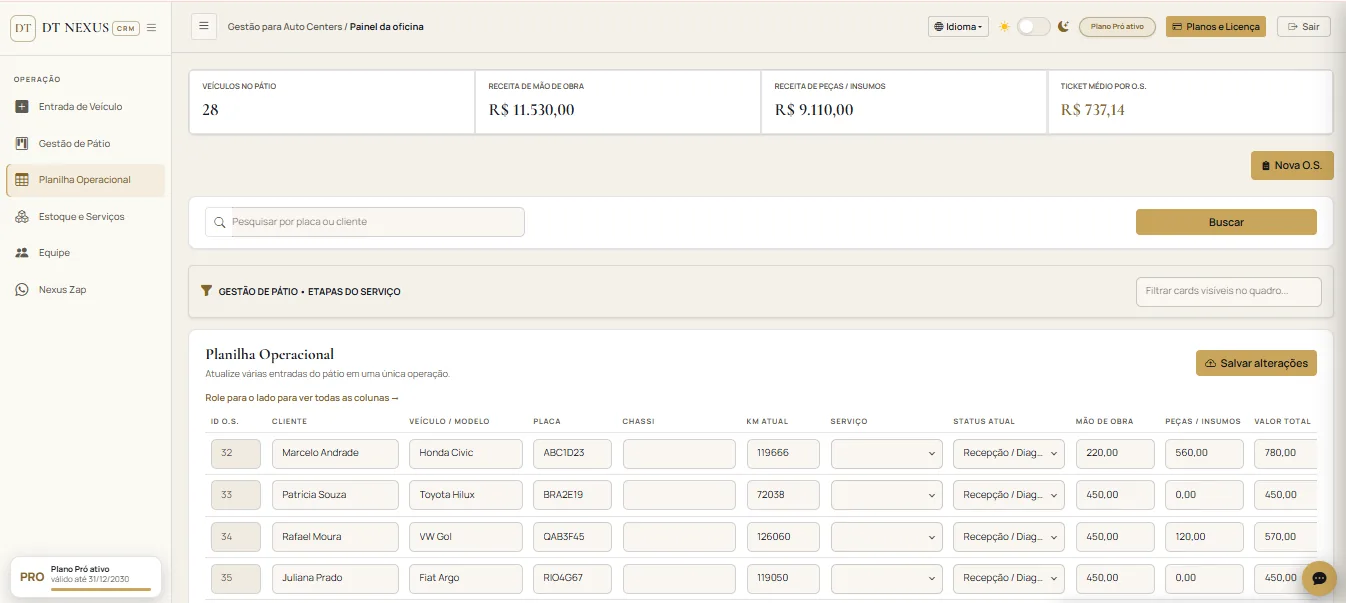
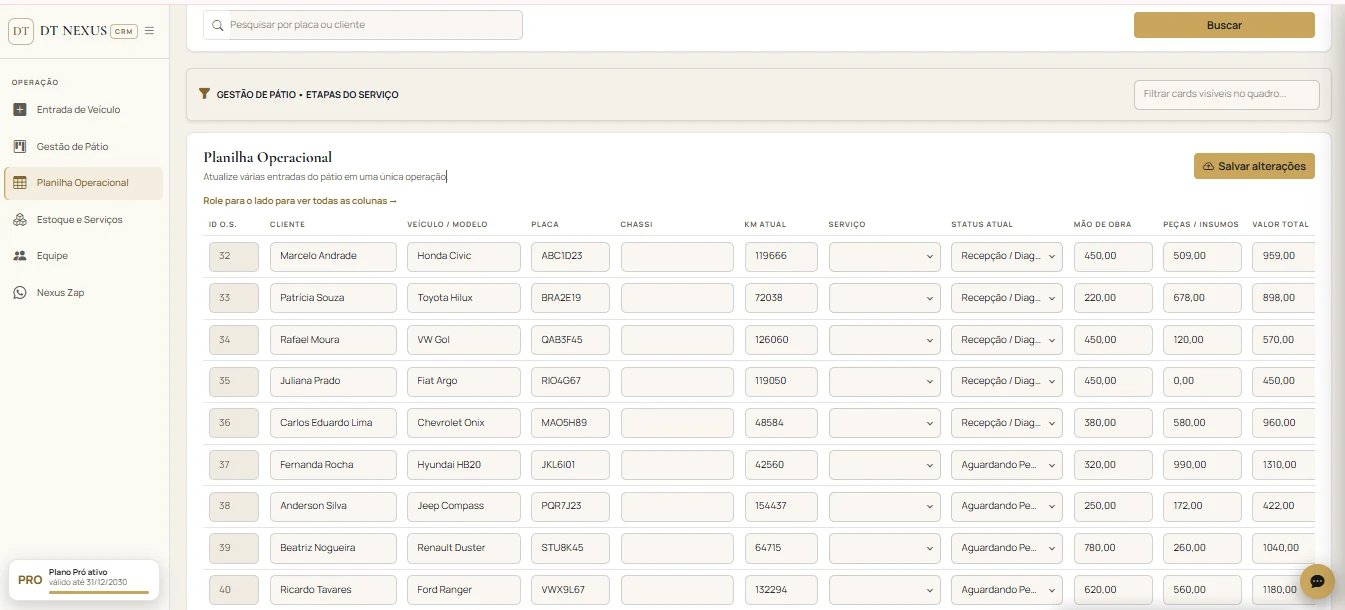
Galeria: WhatsApp, Serviços e planilha atualizada

diff --git a/index.html b/index.html
@@ -433,6 +433,8 @@ document.getElementById('y').textContent = new Date().getFullYear();
     {k:"equipe",n:"Equipe",t:"Equipe e mecânico responsável",d:"Veja qual mecânico está com cada carro e escolha como a oficina trabalha: carro com responsável ou equipe aberta.",a:"Tela de equipe com os carros e o mecânico responsável por cada um"},
     {k:"chat",t:"Chat interno",d:"Balcão e oficina conversam dentro do sistema, sem recado em papel e sem grito pelo pátio.",a:"Chat interno entre balcão e mecânico"},
     {k:"os",t:"Ordem de serviço",d:"Execução, peças e serviços, checklist, histórico e faturamento na mesma O.S. Gere o PDF ou mande o orçamento pelo WhatsApp.",a:"Painel da ordem de serviço com abas de execução, peças, checklist, histórico e faturamento"},
+    {k:"zap",n:"WhatsApp",t:"Central de atendimento (Nexus Zap)",d:"Converse com o cliente pelo número da oficina, dentro do sistema: textos, PDF de orçamento e macros prontas, com o histórico de cada carro.",a:"Central de atendimento por WhatsApp com a conversa do cliente e o orçamento"},
+    {k:"servicos",n:"Serviços",t:"Serviços e mão de obra",d:"Cadastre cada serviço com custo, valor da mão de obra e margem. Na ordem de serviço, é só escolher.",a:"Catálogo de serviços e mão de obra com custo, valor e margem"},
     {k:"estoque",n:"Estoque",t:"Estoque e serviços",d:"Peças com custo, venda, margem e alerta de estoque baixo, mais o catálogo de serviços. Tudo vai direto para a ordem de serviço.",a:"Tela de estoque com peças, custo, venda, margem e aviso de estoque baixo"},
     {k:"planilha",t:"Planilha operacional",d:"Atualize vários carros de uma vez, em formato de planilha: cliente, placa, km, status e valores.",a:"Planilha operacional para editar várias entradas do pátio"},
     {k:"escuro",t:"Modo escuro",d:"Claro ou escuro, como ficar melhor para a recepção ou para a oficina.",a:"Gestão de pátio no modo escuro"},
